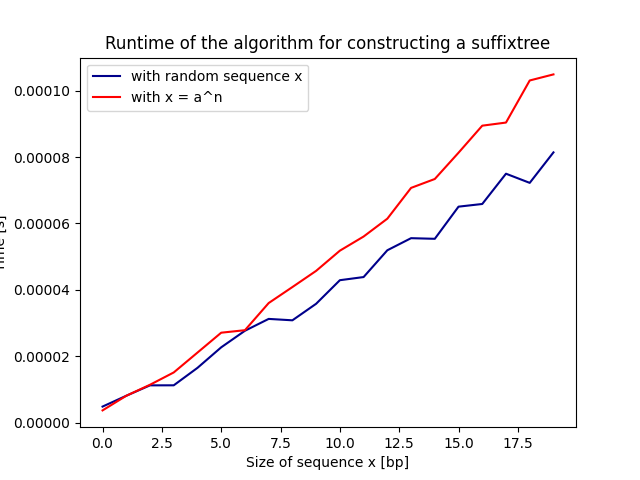
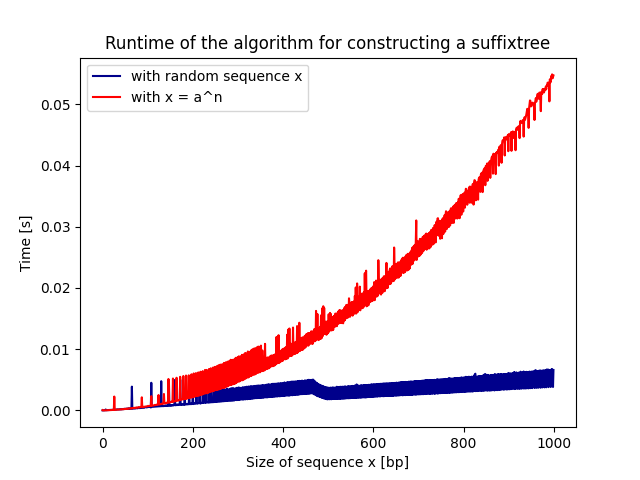
Changed plot for runtime compare

diff --git a/src/plot_runtime.py b/src/plot_runtime.py
@@ -49,7 +49,7 @@ def plot_runtime_search(max_length, iterations):
 
 def main():
     #try
-    plot_runtime_construct(20, 40)
+    plot_runtime_construct(1000, 10)
     plot_runtime_search()
 
 if __name__ == '__main__':
